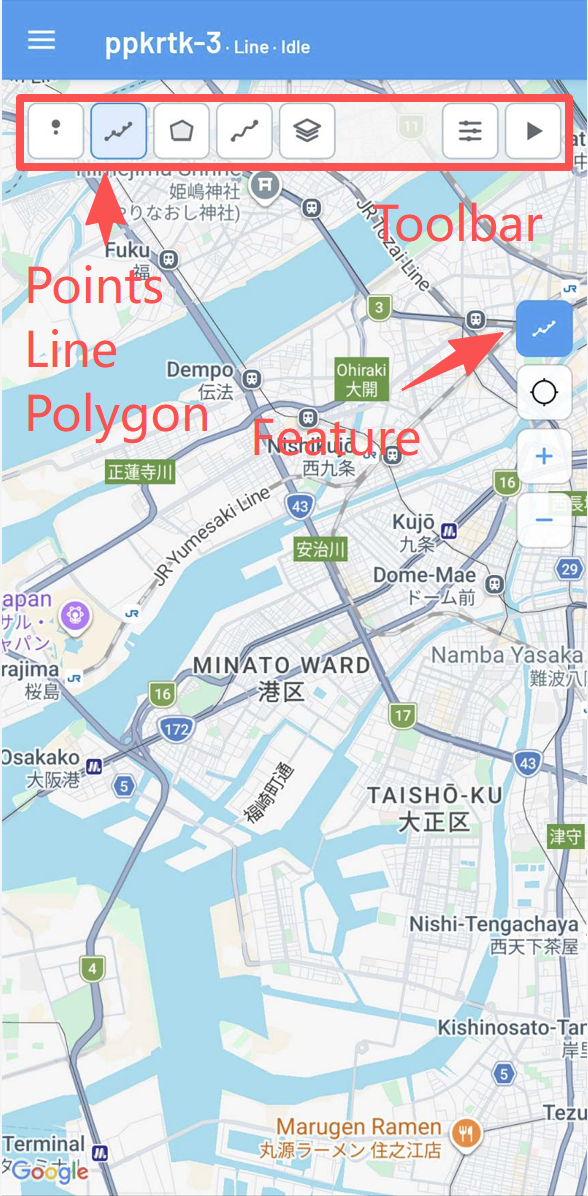
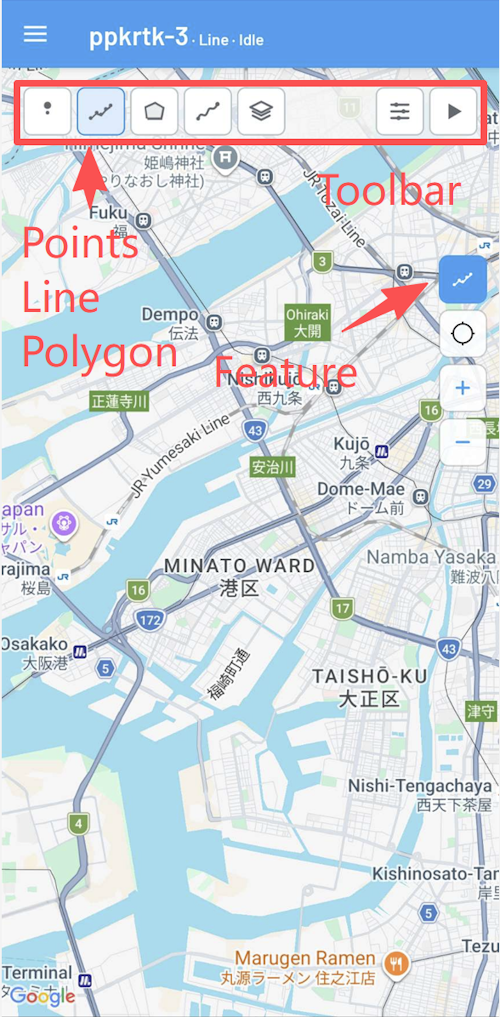
update

diff --git a/gnss/rtk_receiver/casestudy/easy-to-setup-ppk-solution.md b/gnss/rtk_receiver/casestudy/easy-to-setup-ppk-solution.md
@@ -94,7 +94,13 @@ Open the `Projects` page and click the properties button on the right side of th
 
 ![](../../../images/gnss/ppk/ppk_solution.jpg)
 
-Copy the base station RTCM3 file to this Android device. Then, on the screen shown above, select `Import Base RTCM3 Data`. After that, the `Process PPK` button below will become active. Tap it to start processing. The progress will be shown below.
+a. Copy the base station RTCM3 file to this Android device. 
 
-Once processing is finished, tap `Update Features`. All features in the project that correspond to the processed PPK rover file will then have their coordinates updated.
+b. on the screen shown above, select `Import Base RTCM3 Data`. 
+
+c. the `Process PPK` button below will become active. Tap it to start processing. The progress will be shown below.
+
+Once processing is finished, tap `Update Features`. 
+
+All features in the project that correspond to the processed PPK rover file will then have their coordinates updated.
 
